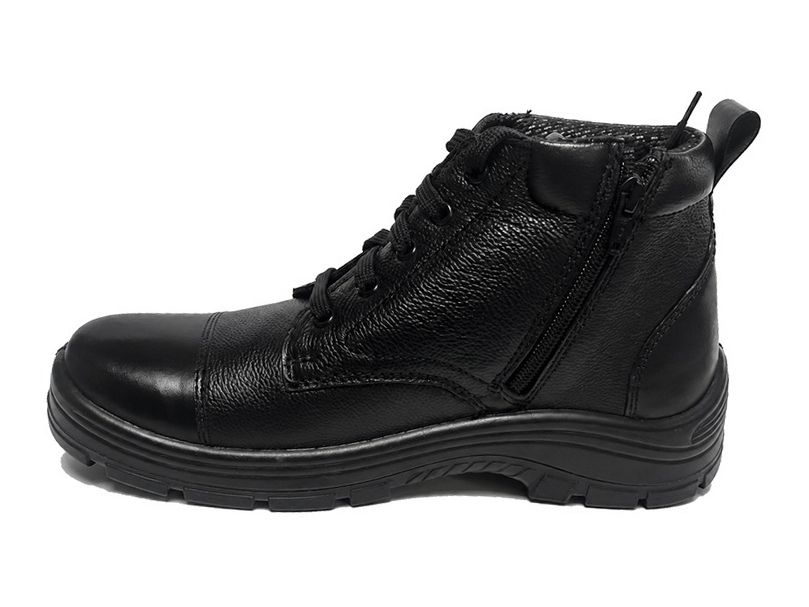
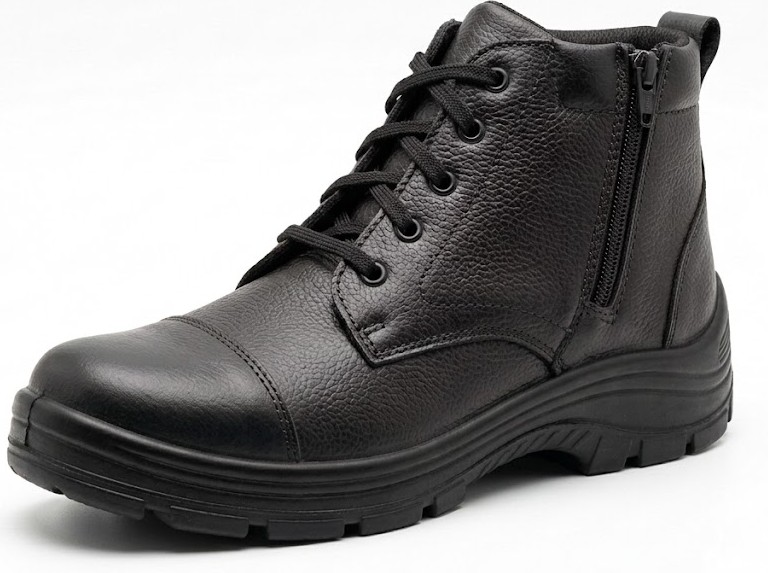
Replace six existing police range photos with new photography

diff --git a/index.html b/index.html
@@ -2973,7 +2973,7 @@ height="0" width="0" style="display:none;visibility:hidden"></iframe></noscript>
         </div>
         <div class="solar-orbit" style="--r:215px; --a:250deg;">
           <button type="button" class="solar-planet" style="--color:#FFD400" data-goto-purpose="military">
-            <img src="assets/products/boot-tan-military.jpg" alt="Tan military boot" loading="lazy"><span>Military Boots</span>
+            <img src="assets/products/boot-tan-military.jpg?v=police-retake-20261031" alt="Tan military boot" loading="lazy"><span>Military Boots</span>
           </button>
         </div>
         <div class="solar-orbit" style="--r:255px; --a:100deg;">
@@ -3104,17 +3104,17 @@ height="0" width="0" style="display:none;visibility:hidden"></iframe></noscript>
           <dl class="card-specs"><div><dt>Upper</dt><dd>Microfibre with PU top finish</dd></div><div><dt>Sole</dt><dd>PU Sole</dd></div></dl><div class="product-price">Price on request</div>
         </article>
         <article tabindex="0" role="button" aria-label="View  details" class="product-card pop-in" data-category="boot" data-model="" data-name=" zip lace ankle boot quick entry" data-purpose="everyday" data-product="boot-tan-zip">
-          <div class="product-photo"><img src="assets/products/boot-tan-zip.jpg" alt="SICURA tan ankle safety boot with side zip" loading="lazy"></div>
+          <div class="product-photo"><img src="assets/products/boot-tan-zip.jpg?v=police-retake-20261031" alt="SICURA tan ankle safety boot with side zip" loading="lazy"></div>
           <div class="product-model"></div><div class="product-meta"><span class="product-name">Zip-Lace Ankle Boot</span><span class="product-tag">Quick-Zip Entry</span></div>
           <dl class="card-specs"><div><dt>Upper</dt><dd>Corrected Grain Leather</dd></div><div><dt>Sole</dt><dd>PU Sole</dd></div></dl><div class="product-price">Price on request</div>
         </article>
         <article tabindex="0" role="button" aria-label="View  details" class="product-card pop-in" data-category="boot" data-model="" data-name=" military combat boot high ankle field" data-purpose="military" data-product="boot-tan-military">
-          <div class="product-photo"><img src="assets/products/boot-tan-military.jpg" alt="SICURA tan high-ankle military combat boot" loading="lazy"></div>
+          <div class="product-photo"><img src="assets/products/boot-tan-military.jpg?v=police-retake-20261031" alt="SICURA tan high-ankle military combat boot" loading="lazy"></div>
           <div class="product-model"></div><div class="product-meta"><span class="product-name">Military Combat Boot</span><span class="product-tag">High-Ankle Field Boot</span></div>
           <dl class="card-specs"><div><dt>Upper</dt><dd>Corrected Grain Leather</dd></div><div><dt>Sole</dt><dd>Rubber Outsole and PU Midsole</dd></div></dl><div class="product-price">Price on request</div>
         </article>
         <article tabindex="0" role="button" aria-label="View SQ 2683 details" class="product-card pop-in" data-category="boot" data-model="SQ 2683" data-name="sq 2683 chukka safety boot low profile" data-purpose="everyday" data-product="boot-chukka-black">
-          <div class="product-photo"><img src="assets/products/boot-chukka-black.jpg" alt="SICURA black chukka safety boot" loading="lazy"></div>
+          <div class="product-photo"><img src="assets/products/boot-chukka-black.jpg?v=police-retake-20261031" alt="SICURA black chukka safety boot" loading="lazy"></div>
           <div class="product-model">SQ 2683</div><div class="product-meta"><span class="product-name">Chukka Safety Boot</span><span class="product-tag">Low-Profile Ankle</span></div>
           <dl class="card-specs"><div><dt>Upper</dt><dd>Soft Milled Corrected Grain Leather</dd></div><div><dt>Sole</dt><dd>PU Sole</dd></div></dl><div class="product-price">Price on request</div>
         </article>
@@ -3124,12 +3124,12 @@ height="0" width="0" style="display:none;visibility:hidden"></iframe></noscript>
           <dl class="card-specs"><div><dt>Upper</dt><dd>Corrected Grain Leather</dd></div><div><dt>Sole</dt><dd>Rubber Sole</dd></div></dl><div class="product-price">Price on request</div>
         </article>
         <article tabindex="0" role="button" aria-label="View SQ 2685 details" class="product-card pop-in" data-category="boot" data-model="SQ 2685" data-name="sq 2685 tall combat boot field ready lace" data-purpose="military" data-product="boot-tall-combat">
-          <div class="product-photo"><img src="assets/products/boot-tall-combat.jpg" alt="SICURA tall black lace-up combat boot" loading="lazy"></div>
+          <div class="product-photo"><img src="assets/products/boot-tall-combat.jpg?v=police-retake-20261031" alt="SICURA tall black lace-up combat boot" loading="lazy"></div>
           <div class="product-model">SQ 2685</div><div class="product-meta"><span class="product-name">Tall Combat Boot</span><span class="product-tag">Field-Ready Lace-Up</span></div>
           <dl class="card-specs"><div><dt>Upper</dt><dd>Corrected Grain Leather</dd></div><div><dt>Sole</dt><dd>Rubber Outsole and PU Midsole</dd></div></dl><div class="product-price">Price on request</div>
         </article>
         <article tabindex="0" role="button" aria-label="View SQ 2682 details" class="product-card pop-in" data-category="boot" data-model="SQ 2682" data-name="sq 2682 ankle safety boot side zip entry" data-purpose="everyday" data-product="boot-zip-ankle">
-          <div class="product-photo"><img src="assets/products/boot-zip-ankle.jpg" alt="SICURA black ankle safety boot with side zip" loading="lazy"></div>
+          <div class="product-photo"><img src="assets/products/boot-zip-ankle.jpg?v=police-retake-20261031" alt="SICURA black ankle safety boot with side zip" loading="lazy"></div>
           <div class="product-model">SQ 2682</div><div class="product-meta"><span class="product-name">Ankle Safety Boot</span><span class="product-tag">Side-Zip Entry</span></div>
           <dl class="card-specs"><div><dt>Upper</dt><dd>Plain Soft Corrected Grain Leather and Mix of Textile</dd></div><div><dt>Sole</dt><dd>PU Sole</dd></div></dl><div class="product-price">Price on request</div>
         </article>
@@ -3139,7 +3139,7 @@ height="0" width="0" style="display:none;visibility:hidden"></iframe></noscript>
           <dl class="card-specs"><div><dt>Upper</dt><dd>Corrected Grain Leather</dd></div><div><dt>Sole</dt><dd>PU PU Dual Density</dd></div></dl><div class="product-price">Price on request</div>
         </article>
         <article tabindex="0" role="button" aria-label="View JUNGLE BOOT details" class="product-card pop-in" data-category="boot" data-model="JUNGLE BOOT" data-name="jungle boot combat boot canvas panel field" data-purpose="military" data-product="boot-canvas-combat">
-          <div class="product-photo"><img src="assets/products/boot-canvas-combat.jpg" alt="SICURA black canvas-panel combat boot" loading="lazy"></div>
+          <div class="product-photo"><img src="assets/products/boot-canvas-combat.jpg?v=police-retake-20261031" alt="SICURA black canvas-panel combat boot" loading="lazy"></div>
           <div class="product-model">JUNGLE BOOT</div><div class="product-meta"><span class="product-name">Combat Boot</span><span class="product-tag">Canvas-Panel Build</span></div>
           <dl class="card-specs"><div><dt>Upper</dt><dd>BLACK WATER REPELLENT PE Textile</dd></div><div><dt>Sole</dt><dd>Rubber Outsole and PU Midsole</dd></div></dl><div class="product-price">Price on request</div>
         </article>
@@ -4890,32 +4890,32 @@ height="0" width="0" style="display:none;visibility:hidden"></iframe></noscript>
         desc: "A textured, thread-patterned take on the standard black lace-up, with padded comfort built in. Same protection, a bit more detail.",
       },
       'boot-tan-zip': {
-        img: 'assets/products/boot-tan-zip.jpg',
+        img: 'assets/products/boot-tan-zip.jpg?v=police-retake-20261031',
         specs: [{ k: 'Sole', v: 'PU Sole' }, { k: 'Upper', v: 'Corrected Grain Leather' }, { k: 'Colours', v: 'Tan Black' }],
         desc: "Standard lacing plus a side zip — wear it laced like a normal boot, but step in and out without touching the laces when you're on and off all day.",
       },
       'boot-tan-military': {
-        img: 'assets/products/boot-tan-military.jpg',
+        img: 'assets/products/boot-tan-military.jpg?v=police-retake-20261031',
         specs: [{ k: 'Sole', v: 'Rubber Outsole and PU Midsole' }, { k: 'Upper', v: 'Corrected Grain Leather' }, { k: 'Colours', v: 'Tan Black' }],
         desc: "The tallest boot in the range, built on a high-ankle military silhouette. Full-height lacing lets you tighten the fit all the way up, for genuinely uneven or loaded ground.",
       },
       'boot-chukka-black': {
-        img: 'assets/products/boot-chukka-black.jpg',
+        img: 'assets/products/boot-chukka-black.jpg?v=police-retake-20261031',
         specs: [{ k: 'Model', v: 'SQ 2683' }, { k: 'Sole', v: 'PU Sole' }, { k: 'Upper', v: 'Soft Milled Corrected Grain Leather' }, { k: 'Sizes', v: '39 TO 45' }, { k: 'Colours', v: 'Black Brown Tan' }, { k: 'MOQ', v: '500 pairs' }, { k: 'Standard', v: 'EN ISO 20345:2024' }],
         desc: "The low-profile answer for ankle coverage without the bulk of a full boot. Shorter shaft, open lacing, built for a full day on your feet.",
       },
       'boot-tall-combat': {
-        img: 'assets/products/boot-tall-combat.jpg',
+        img: 'assets/products/boot-tall-combat.jpg?v=police-retake-20261031',
         specs: [{ k: 'Model', v: 'SQ 2685' }, { k: 'Sole', v: 'Rubber Outsole and PU Midsole' }, { k: 'Upper', v: 'Corrected Grain Leather' }, { k: 'Sizes', v: '39 TO 45' }, { k: 'Colours', v: 'Black Tan' }, { k: 'MOQ', v: '500 pairs' }, { k: 'Standard', v: 'EN ISO 20345:2024' }],
         desc: "The field-ready end of the boot line — tall shaft, full-height lacing, built for real ankle and lower-leg support on ground that won't stay flat.",
       },
       'boot-zip-ankle': {
-        img: 'assets/products/boot-zip-ankle.jpg',
+        img: 'assets/products/boot-zip-ankle.jpg?v=police-retake-20261031',
         specs: [{ k: 'Model', v: 'SQ 2682' }, { k: 'Sole', v: 'PU Sole' }, { k: 'Upper', v: 'Plain Soft Corrected Grain Leather and Mix of Textile' }, { k: 'Sizes', v: '39 TO 45' }, { k: 'Colours', v: 'Black Brown Tan' }, { k: 'MOQ', v: '500 pairs' }, { k: 'Standard', v: 'EN ISO 20345:2024' }],
         desc: "A side zip on the standard ankle boot — step in fast without touching the laces, then tighten normally once it's on. Built for frequent boot-on, boot-off days.",
       },
       'boot-canvas-combat': {
-        img: 'assets/products/boot-canvas-combat.jpg',
+        img: 'assets/products/boot-canvas-combat.jpg?v=police-retake-20261031',
         specs: [{ k: 'Model', v: 'JUNGLE BOOT' }, { k: 'Sole', v: 'Rubber Outsole and PU Midsole' }, { k: 'Upper', v: 'BLACK WATER REPELLENT PE Textile' }, { k: 'Sizes', v: '39 TO 45' }, { k: 'Colours', v: 'Black / Olive Green' }, { k: 'MOQ', v: '500 pairs' }, { k: 'Standard', v: 'EN ISO 20345:2024' }],
         desc: "A lighter combat boot — a leather-and-canvas build instead of full leather, for the same tall, laced coverage with less weight over a long, active shift.",
       },
@@ -5245,7 +5245,7 @@ height="0" width="0" style="display:none;visibility:hidden"></iframe></noscript>
 <script id="product-framing-script">
 (function(){
  'use strict';
- const frames={"boot-black-orange.jpg":[808,523,13,7,794,515,0],"boot-brown-fur.jpg":[787,591,47,68,694,461,0],"boot-canvas-combat.jpg":[831,624,52,56,730,510,0],"boot-chukka-black.jpg":[785,589,45,96,694,397,0],"boot-tactical-hex.jpg":[745,659,8,16,728,630,0],"boot-tall-combat.jpg":[820,615,64,43,695,526,0],"boot-tan-military.jpg":[828,621,69,48,695,526,0],"boot-tan-trim.jpg":[788,591,47,92,695,406,0],"boot-tan-zip.jpg":[792,594,51,96,695,399,0],"boot-zip-ankle.jpg":[809,607,46,91,715,422,0],"chelsea-black-suede.jpg":[777,601,10,10,747,579,0],"chelsea-black.jpg":[799,600,51,40,694,516,0],"chelsea-brown.jpg":[724,534,6,11,713,523,0],"chelsea-red.jpg":[802,602,56,42,695,513,0],"lace-black-orange.jpg":[792,594,51,127,695,344,0],"lace-black-tan.jpg":[792,594,51,127,695,337,0],"lace-black-tansole.jpg":[789,592,49,130,695,337,0],"lace-black-thread.jpg":[790,593,49,130,695,334,0],"lace-black.jpg":[783,588,43,115,694,356,0],"lace-brown.jpg":[792,594,50,124,696,343,0],"lace-safety-yellow.jpg":[750,456,3,27,747,422,0],"lace-steel-eyelet.jpg":[813,448,0,2,813,440,0],"sneaker-white.jpg":[895,672,75,94,751,423,0],"sport-lime-thick.jpg":[856,474,0,15,846,453,0],"sport-suede-blue.jpg":[871,465,0,7,871,449,0]};
+ const frames={"boot-black-orange.jpg":[808,523,13,7,794,515,0],"boot-brown-fur.jpg":[787,591,47,68,694,461,0],"boot-canvas-combat.jpg":[518,380,14,7,495,365,0],"boot-chukka-black.jpg":[834,485,20,13,807,469,0],"boot-tactical-hex.jpg":[745,659,8,16,728,630,0],"boot-tall-combat.jpg":[790,598,0,13,769,581,0],"boot-tan-military.jpg":[653,527,11,13,638,499,0],"boot-tan-trim.jpg":[788,591,47,92,695,406,0],"boot-tan-zip.jpg":[741,539,24,11,702,527,0],"boot-zip-ankle.jpg":[768,573,7,0,727,560,0],"chelsea-black-suede.jpg":[777,601,10,10,747,579,0],"chelsea-black.jpg":[799,600,51,40,694,516,0],"chelsea-brown.jpg":[724,534,6,11,713,523,0],"chelsea-red.jpg":[802,602,56,42,695,513,0],"lace-black-orange.jpg":[792,594,51,127,695,344,0],"lace-black-tan.jpg":[792,594,51,127,695,337,0],"lace-black-tansole.jpg":[789,592,49,130,695,337,0],"lace-black-thread.jpg":[790,593,49,130,695,334,0],"lace-black.jpg":[783,588,43,115,694,356,0],"lace-brown.jpg":[792,594,50,124,696,343,0],"lace-safety-yellow.jpg":[750,456,3,27,747,422,0],"lace-steel-eyelet.jpg":[813,448,0,2,813,440,0],"sneaker-white.jpg":[895,672,75,94,751,423,0],"sport-lime-thick.jpg":[856,474,0,15,846,453,0],"sport-suede-blue.jpg":[871,465,0,7,871,449,0]};
  const selector='.product-photo img,.solar-planet img,#productModalImg,.related-photo img';
  const seen=new WeakSet();
  function sourceFrame(img){return frames[(img.getAttribute('src')||'').split('/').pop().split('?')[0]];}
